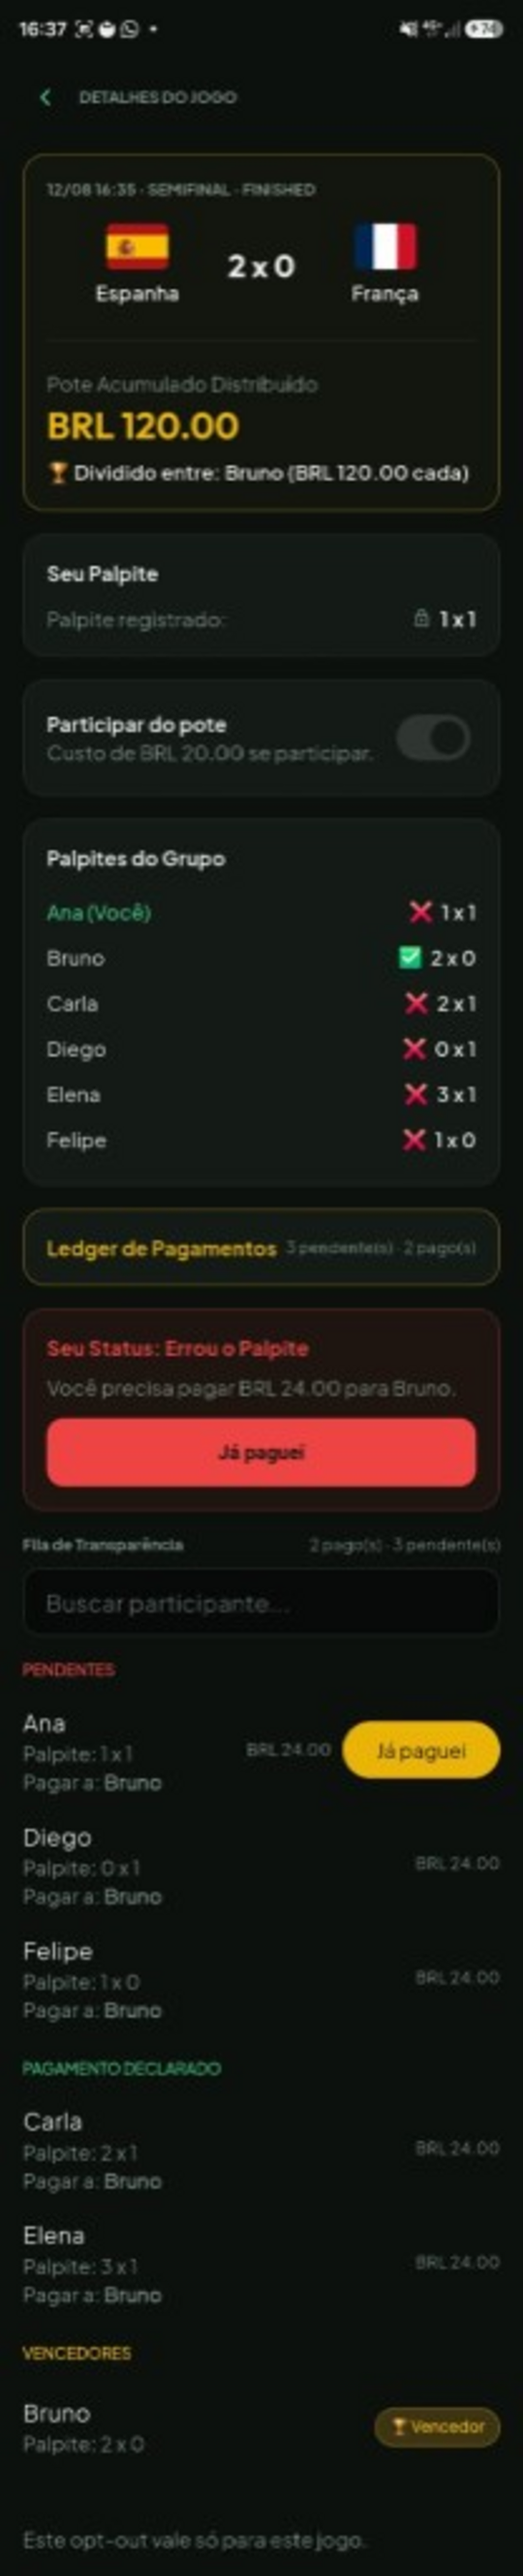
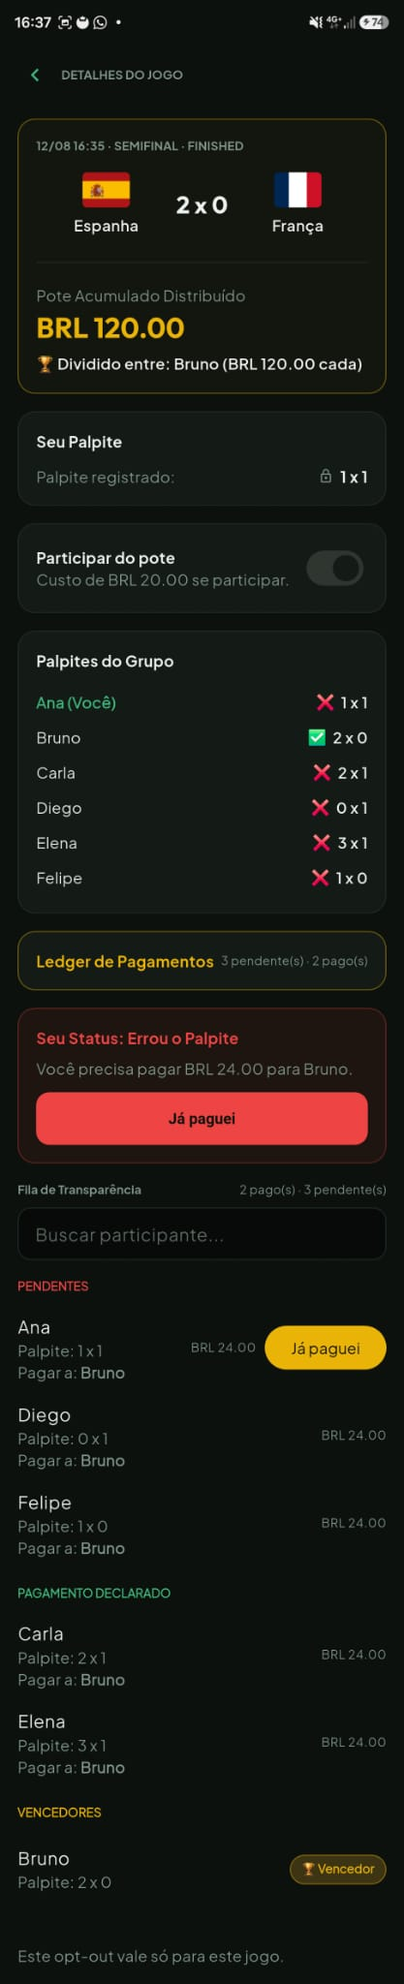
fix(docs): replace blurry prediction and ledger screenshots
Use higher-resolution captures from Downloads so the README gallery stays readable.

diff --git a/docs/screenshots/README.md b/docs/screenshots/README.md
@@ -8,8 +8,8 @@ Add PNG (or WebP) files here before making the repository public. The root READM
 |------|--------|
 | `01-login.png` | Login (email/password) |
 | `02-feed.png` | Match feed (Upcoming / Live / Finished) |
-| `03-prediction.png` | Live / match details with locked predictions |
-| `04-ledger.png` | Payment ledger ("Já paguei") — may be a tall scroll capture |
+| `03-prediction.png` | Final match details with prediction inputs + lock countdown |
+| `04-ledger.png` | Payment ledger ("Já paguei") — tall scroll capture; prefer native phone files over chat uploads |
 | `05-ranking.png` | Ranking / podium |
 | `06-group-hub.png` | Group hub (active group + join/create) |
 | `07-create-group.png` | Create group — name/fee + all 48 WC2026 teams selectable |

diff --git a/README.md b/README.md
@@ -113,10 +113,10 @@ Captured with `flutter run --dart-define=SCREENSHOT_DEMO=true` (see [`docs/scree
 <p align="center"><em>Group hub · Create group (48 WC2026 teams)</em></p>
 
 <p align="center">
-  <img src="docs/screenshots/03-prediction.png" width="220" alt="Live match details"/>
+  <img src="docs/screenshots/03-prediction.png" width="220" alt="Prediction with lock countdown"/>
   <img src="docs/screenshots/04-ledger.png" width="220" alt="Payment ledger"/>
 </p>
-<p align="center"><em>Live match (locked predictions) · Finished match + payment ledger</em></p>
+<p align="center"><em>Final + prediction countdown · Finished match + payment ledger</em></p>
 
 ---
 
